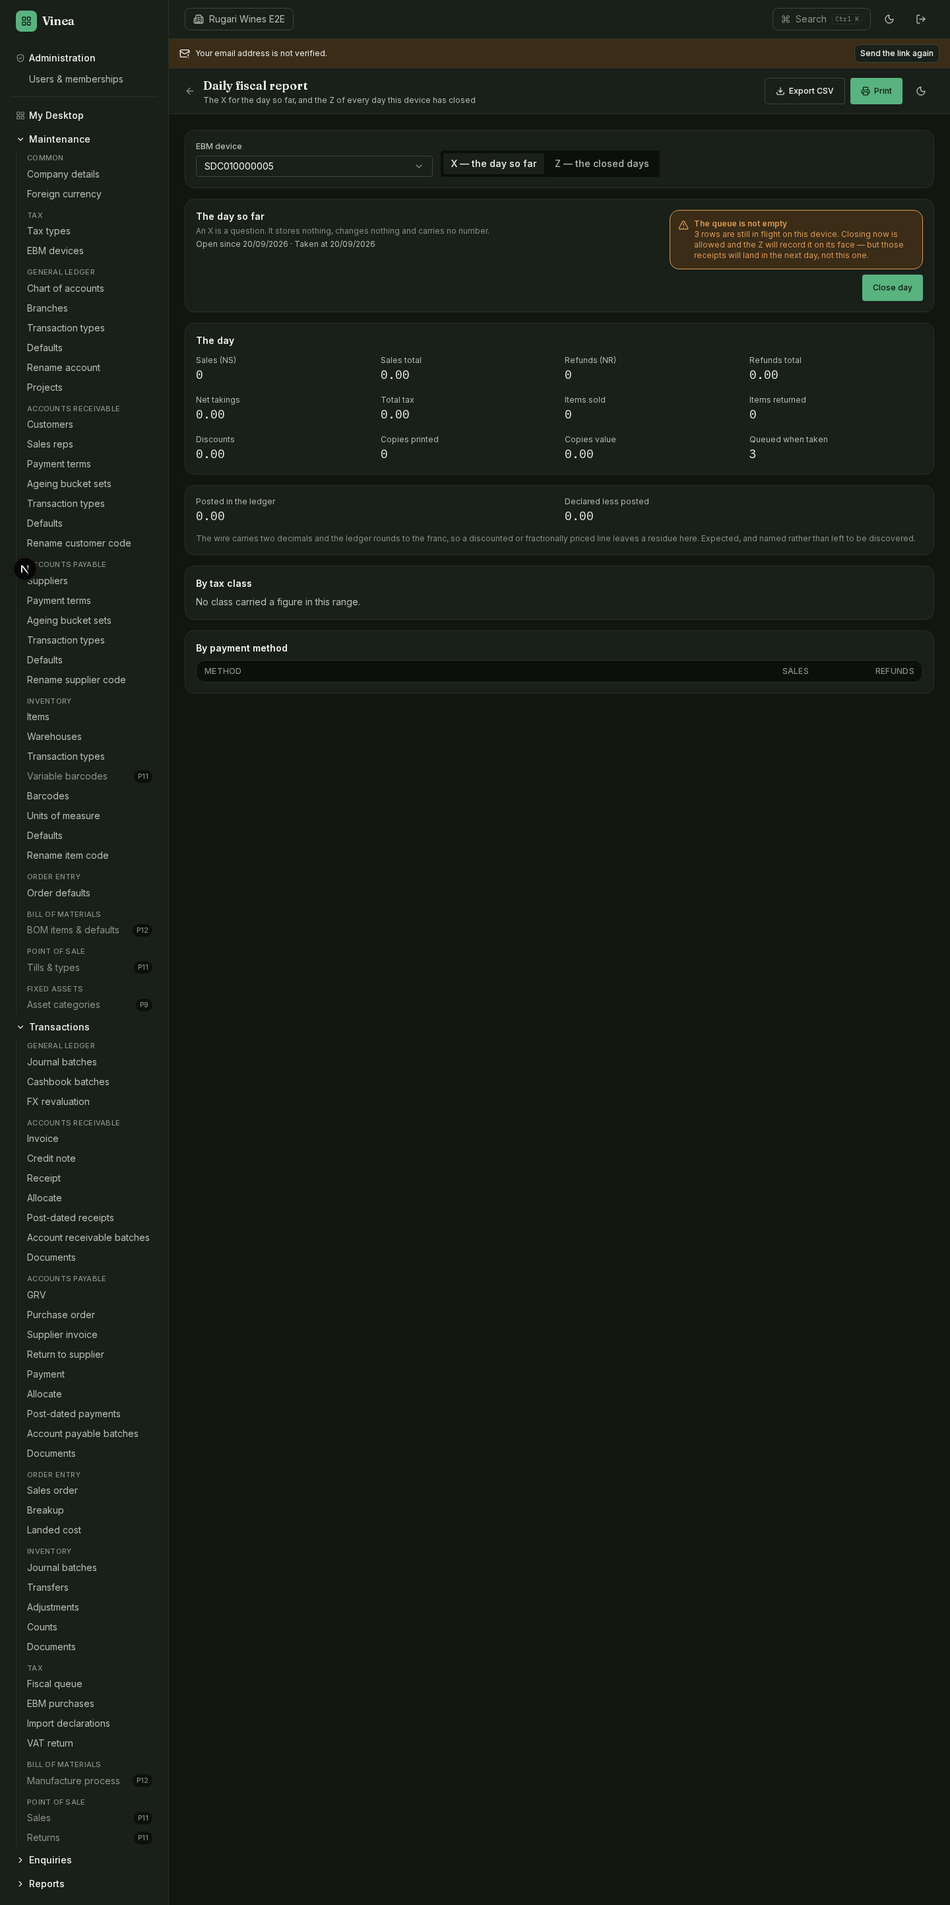
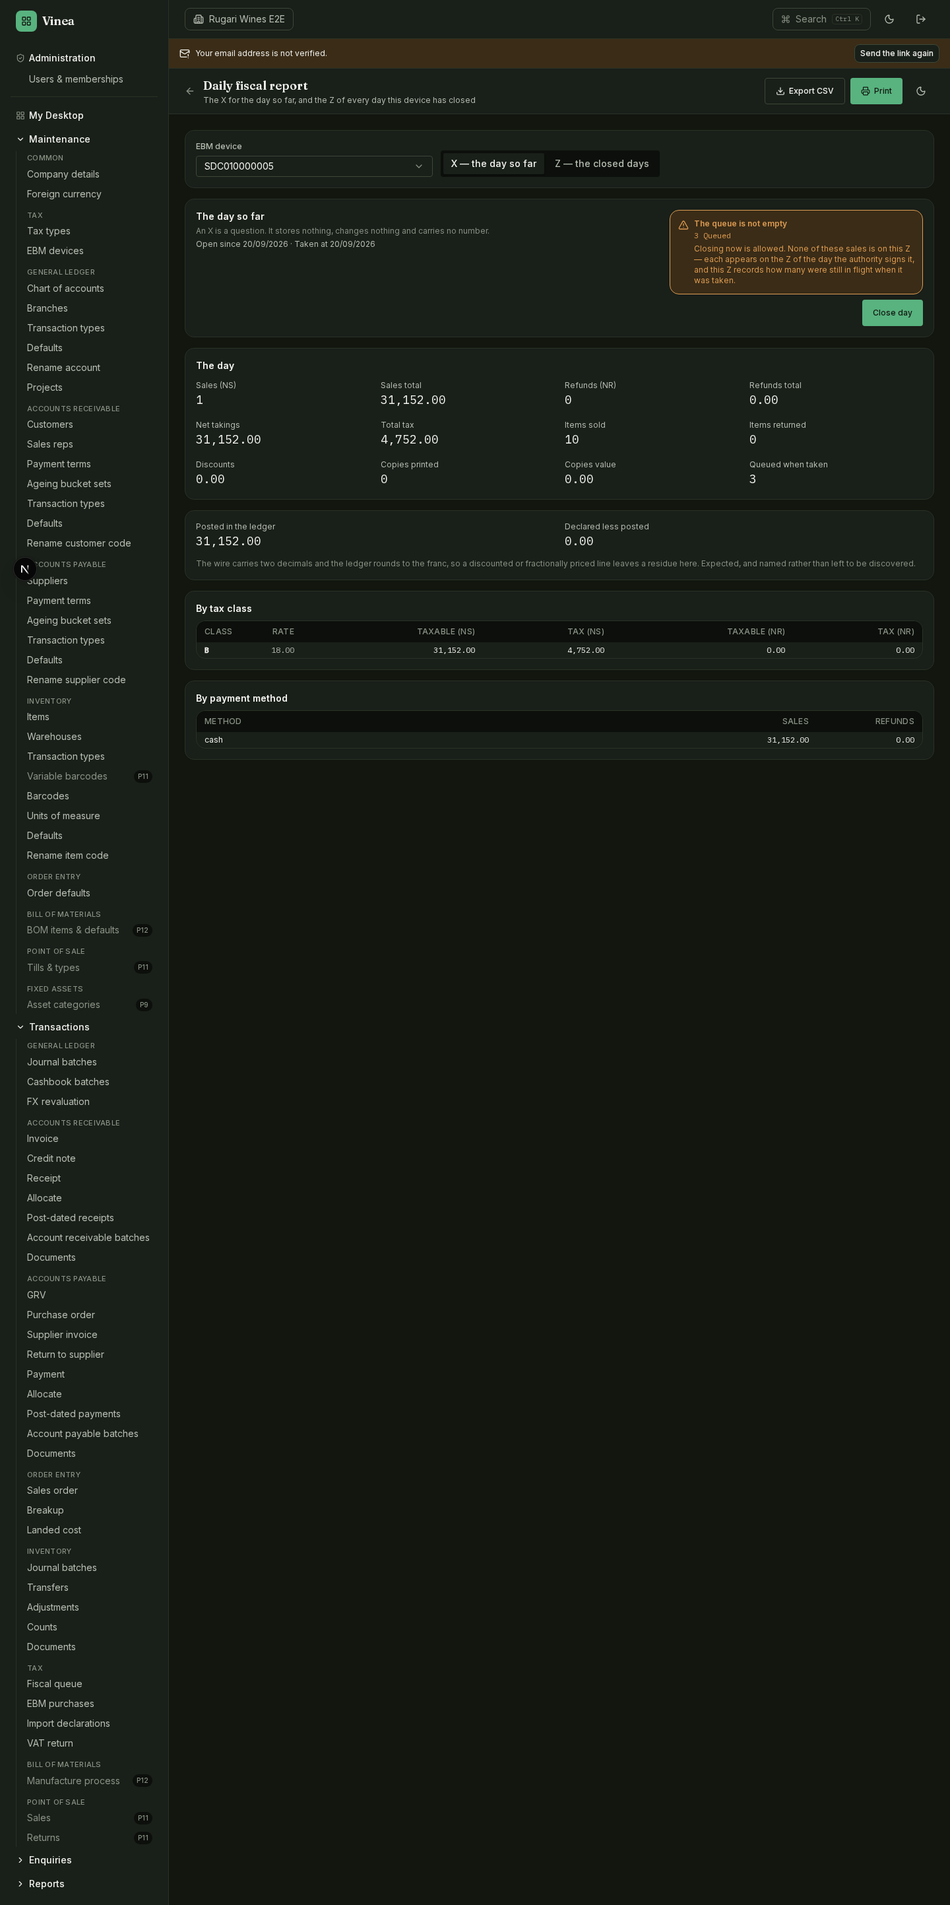
fix(fiscal): Close day says which rows and where those sales go
Three things the owner's reading of the kickoff asked for, and one boundary
that fell out of asking.

**Rows in flight by status, not as one number.** `queued` and `sending` clear
themselves; `failed`, `unknown` and `needs_receipt` each wait for a person and
for three different reasons — RRA refused, RRA may be holding the sale, RRA is
holding it and Vinea has no receipt. "5 rows pending" told a reader there was a
queue and nothing about whether it was a drain away or a morning's work.
`pending_rows` is Σ of exactly these statuses, so the breakdown and the total
cannot disagree.

**And the copy was wrong.** It said those receipts "will land in the next day".
A row the authority answers three days later lands on the Z of **that** day. It
now says so: *"None of these sales is on this Z — each appears on the Z of the
day the authority signs it, and this Z records how many were still in flight
when it was taken."*

**The e2e closes over a row.** It drove one through `/_sandbox/mode` and then
drained it away before closing, so `queued_rows` was only ever asserted on a
live X — never on a stored Z, which is the one thing decision 11 stores it for.
It now presses Close day over the stuck row and asserts the Z carries the same
count: two sales stand in the range, the Z counts one, and the other is in
`queued_rows` rather than missing. Then the authority returns and the sale lands
on the next Z with `queued_rows` 0 — the warning's claim made good.
[…]

diff --git a/frontend/e2e/p7-enquiries-reports.spec.ts b/frontend/e2e/p7-enquiries-reports.spec.ts
@@ -405,7 +405,7 @@ test.describe("the tax enquiries and reports", () => {
 
   // PATH: /tax/reports/daily-fiscal -> GET /fiscal/devices/{id}/x-report, GET /fiscal/queue.
   // CANNOT SEE: what a Z stores — that is the next test, after this one has closed the day.
-  test("the X view warns before the button while a row is still in flight", async ({
+  test("the day closes over a row in flight, and the Z says how many", async ({
     page,
     request,
   }) => {
@@ -417,8 +417,8 @@ test.describe("the tax enquiries and reports", () => {
     await sandboxMode(request, "down");
     await postInvoice(page, "1", "stuck");
     await drain(page);
-    expect(await pendingRows(page), "the sale is stuck behind an unreachable authority")
-      .toBeGreaterThan(0);
+    const inFlight = await pendingRows(page);
+    expect(inFlight, "the sale is stuck behind an unreachable authority").toBeGreaterThan(0);
 
     await page.goto("/tax/reports/daily-fiscal");
     await page.waitForSelector("h1:has-text('Daily fiscal report')");
@@ -431,20 +431,66 @@ test.describe("the tax enquiries and reports", () => {
     await expect(page.getByTestId("close-day-warning")).toBeVisible();
     await expect(page.getByTestId("close-day-clear")).toHaveCount(0);
     await expect(page.getByTestId("close-day")).toBeEnabled();
-    await expect(page.getByTestId("day-queued-rows")).not.toHaveText("0");
 
-    // --- the authority comes back, and the warning goes with it ---------------------------
+    // **By status, not as one number.** `queued` and `sending` clear themselves; `failed`,
+    // `unknown` and `needs_receipt` each wait for a person, for three different reasons. A
+    // reader deciding whether to close needs to know which kind they have.
+    const byStatus = page.getByTestId("close-day-pending-by-status");
+    await expect(byStatus).toBeVisible();
+    await expect(byStatus).toContainText("Queued");
+    await expect(byStatus.locator("li")).not.toHaveCount(0);
+
+    // And the text says where those sales go — the Z of the day the authority signs them, not
+    // this one.
+    await expect(page.getByTestId("close-day-warning")).toContainText(
+      "the Z of the day the authority signs it",
+    );
+    await expect(page.getByTestId("day-queued-rows")).toHaveText(String(inFlight));
+
+    // --- closed **over** the row, and the Z carries the count ------------------------------
+    //
+    // Two screens, one count: what the X warned about, and what the Z recorded on its face.
+    // This is decision 11's whole reason for storing `queued_rows`, and the only way to see it
+    // is to close over something.
+    await page.getByTestId("close-day").click();
+    await expect(page.getByText(/Z-\d+ stored/).first()).toBeVisible({ timeout: 30_000 });
+    await expect(page.getByTestId("z-number").first()).toHaveText(/^Z-\d+$/);
+    await expect(page.getByTestId("day-queued-rows")).toHaveText(String(inFlight));
+
+    // **A queued row is not a receipt, and this is where that shows.** Two sales stand in this
+    // range — the USD invoice the setup signed, and the one the authority never got — and the
+    // Z counts **one**. The other is not missing and not silently dropped: it is in
+    // `queued_rows` above, which is the whole reason decision 11 stores that figure.
+    await expect(page.getByTestId("day-ns-count")).toHaveText("1");
+    await expect(page.getByTestId("day-nr-count")).toHaveText("0");
+
+    // --- the authority comes back, and the sale lands on the *next* Z ----------------------
+    //
+    // Which is the claim the warning makes, made good. Draining here also leaves the queue
+    // clear for the rest of the file, and the second close keeps that sale out of the next
+    // test's range.
     await sandboxMode(request, "up");
+
+    // **Past the close's second before draining, deliberately.** A Z's bounds are floored to a
+    // second because `sdcDateTime` has no finer resolution, and a receipt signed in the very
+    // second a Z was taken falls inside that Z's *range* while its figures are already frozen —
+    // and the next Z opens exclusively at the same instant, so neither counts it. The backend's
+    // own boundary test sleeps 2.05s for exactly this reason
+    // (`test_daily_report.py::test_a_second_z_covers_only_what_came_after_the_first`). This is
+    // the resolution the design has, not a flake being papered over: a real device signs and
+    // closes minutes apart, and only a test is fast enough to land on the boundary.
+    await page.waitForTimeout(1500);
     await drainUntilClear(page);
-    await page.reload();
+
+    await page.goto("/tax/reports/daily-fiscal");
     await page.waitForSelector("h1:has-text('Daily fiscal report')");
     await expect(page.getByTestId("close-day-clear")).toBeVisible();
     await expect(page.getByTestId("close-day-warning")).toHaveCount(0);
-
-    // Close what is standing so far — everything this fixture and any earlier spec left — so
-    // the next test's Z covers its own three documents and nothing else.
     await page.getByTestId("close-day").click();
     await expect(page.getByText(/Z-\d+ stored/).first()).toBeVisible({ timeout: 30_000 });
+    // The sale the earlier Z could not count is on this one, and this one closed over nothing.
+    await expect(page.getByTestId("day-ns-count")).toHaveText("1");
+    await expect(page.getByTestId("day-queued-rows")).toHaveText("0");
   });
 
   // PATH: /tax/reports/daily-fiscal and /tax/reports/receipts -> GET x-report, z-reports,

diff --git a/frontend/src/features/fiscal/reports/daily-report.tsx b/frontend/src/features/fiscal/reports/daily-report.tsx
@@ -13,6 +13,7 @@ import { TBody, TD, TH, THead, TR, Table } from "@/design/components/table";
 import { Tabs, TabsList, TabsTrigger } from "@/design/components/tabs";
 import { useToast } from "@/design/components/toast";
 import { isApiError, useHasPermission } from "@/features/auth/hooks";
+import { FiscalOutboxStatus } from "@/lib/api-enums";
 import { useCompanyDetails, useCurrencies } from "@/features/gl/hooks";
 import { exportToCsv } from "@/lib/csv";
 import { newDraftId } from "@/lib/drafts";
@@ -26,6 +27,13 @@ import {
   useZReports,
 } from "../hooks";
 import type { DailyFigures, DailyReport } from "../types";
+
+/** The two states a row cannot move out of by itself. Everything else is "in flight" and is
+ * what `pending_rows` counts — so this is the one place the two definitions meet. */
+const TERMINAL_ON_THE_DAY: ReadonlySet<string> = new Set([
+  FiscalOutboxStatus.SENT,
+  FiscalOutboxStatus.CANCELLED,
+]);
 
 /**
  * Reports → Tax → **Daily fiscal report** (P7 step 8): the X live, the Zs closed, and the act
@@ -50,6 +58,7 @@ import type { DailyFigures, DailyReport } from "../types";
  */
 export function DailyFiscalReport() {
   const t = useTranslations("fiscal.daily");
+  const tq = useTranslations("fiscal.queue");
   const tr = useTranslations("reports");
   const toast = useToast();
   const showApiError = useApiErrorToast();
@@ -74,6 +83,20 @@ export function DailyFiscalReport() {
   const close = useCloseFiscalDay();
 
   const pending = queue.data?.[0]?.pending_rows ?? 0;
+  /**
+   * The rows in flight **by status**, not as one number.
+   *
+   * `queued` and `sending` clear themselves; `failed`, `unknown` and `needs_receipt` each wait
+   * for a person, and they wait for three different reasons — RRA refused, RRA may be holding
+   * the sale, RRA is holding it and Vinea has no receipt. A single "5 rows pending" tells
+   * somebody deciding whether to close that there is a queue, and nothing about whether it is
+   * a drain away or a morning's work.
+   *
+   * `pending_rows` is Σ of exactly these, so the breakdown and the total cannot disagree.
+   */
+  const pendingByStatus = (queue.data?.[0]?.counts ?? []).filter(
+    (count) => !TERMINAL_ON_THE_DAY.has(count.status) && count.rows > 0,
+  );
 
   const base = (currencies.data ?? []).find((c) => c.is_base);
   /** The **declared** scale: two decimals, whatever the currency's own places are. See the
@@ -206,7 +229,20 @@ export function DailyFiscalReport() {
                       <AlertTriangle className="mt-0.5 size-4 shrink-0" />
                       <div>
                         <p className="font-semibold">{t("pendingWarningTitle")}</p>
-                        <p>{t("pendingWarning", { count: pending })}</p>
+                        <ul
+                          data-testid="close-day-pending-by-status"
+                          className="flex flex-wrap gap-x-3 pt-0.5 font-mono"
+                        >
+                          {pendingByStatus.map((count) => (
+                            <li key={count.status}>
+                              {t("pendingByStatus", {
+                                rows: count.rows,
+                                status: tq(`statusLabel.${count.status}`),
+                              })}
+                            </li>
+                          ))}
+                        </ul>
+                        <p className="pt-1">{t("pendingWarning")}</p>
                       </div>
                     </div>
                   ) : (

diff --git a/frontend/scripts/capture-p7-enquiries-reports.ts b/frontend/scripts/capture-p7-enquiries-reports.ts
@@ -317,6 +317,15 @@ async function seed(page: Page): Promise<{ deviceId: number; documentId: number 
   // then carries figures **and** the warning (shot 4).
   await apiOk(page, `/fiscal/devices/${deviceId}/close-day`);
 
+  // **Past the close's second before anything else is signed.** A Z's bounds are floored to a
+  // second (`sdcDateTime` has no finer resolution) and its range is `from_at <` … `<= to_at`, so
+  // a receipt issued in the very second the Z was taken lands inside a range whose figures are
+  // already frozen — and the next range opens exclusively at the same instant, so neither Z
+  // counts it. This script does a day's trading in under a second, which is the only way to
+  // reach that boundary; a real device is minutes apart. Without this wait shot 4's X came out
+  // a warning over a column of zeros, because the sale below had been swallowed by the Z above.
+  await page.waitForTimeout(1500);
+
   // --- a posted revaluation, so the FX report has a run to open ---------------------------
   //
   // The mirror posts the day after the revaluation date, so a month-end run reaches into the

diff --git a/docs/p7-step-8-report.md b/docs/p7-step-8-report.md
@@ -147,41 +147,99 @@ base reversal — and that is the honest answer to "what took this out of the ba
 Overwriting it with the counter-entry would replace one true statement with a different true
 statement and lose the first.
 
-## Close day: warn, don't refuse — and why
+## Close day: the kickoff's refusal wording is withdrawn
 
 The kickoff carried this as *"refused when the device has non-terminal rows … the refusal shown
 before the button"*. Raised before building, because it contradicts an approved decision, and
 settled by the owner: **warn, don't refuse.**
 
-The conflict was real. `daily.close_day()` refuses one thing — an empty range
-(`fiscal_z_empty_range`) — and decision 11 deliberately records `queued_rows` on every Z, in its
-own words *"so a Z that closed over an unsent sale says so on its face"*. A hard refusal would
-make that figure dead: it could never be anything but zero. It would also stop a shop closing its
-day because a line was down, which turns an outage into the shop's problem instead of the queue's.
+**That wording is withdrawn. Decision 11 stands exactly as written, and is not amended.** No
+backend change was made and none was needed — `daily.close_day()` is untouched.
 
-So the rule lives where decision 11 put it, and the screen carries the part the kickoff was
-actually asking for — the warning is shown **before** the button, never after it:
+The conflict was real. `close_day()` refuses one thing, an empty range (`fiscal_z_empty_range`),
+and decision 11 deliberately records `queued_rows` on every Z, in its own words *"so a Z that
+closed over an unsent sale says so on its face"*. A refusal would make that figure dead: it could
+never be anything but zero, and the sentence decision 11 wrote it for could never be true. It
+would also stop a shop closing its day because a line was down, which turns an outage into the
+shop's problem instead of the queue's.
 
-* rows in flight → a warning naming the count, and what closing now means for those receipts
-  (`close-day-warning`); Close day stays enabled;
-* queue clear → `close-day-clear` says so;
-* and the Z that results carries `queued_rows` on its face, which the screen renders as a figure
-  of its own.
+So the screen carries what the kickoff was actually asking for — the person is told, **before**
+the button, what closing now means — and the decision keeps its meaning.
 
-The e2e proves it on a **real** stuck row driven through `/_sandbox/mode`: the authority goes
-down, a sale stays in flight, the warning appears with the button still pressable, and then the
-authority comes back and the warning is replaced. No backend change was needed and none was made.
+### What the X view says
 
-**A second close in the same second is refused**, and that is the existing guard doing its job.
-A Z's range runs from the previous close to now, floored to the second, so an immediate second
-close has an empty range. The resolution is a second because `sdcDateTime` has no finer one —
-`tests/fiscal/test_daily_report.py` sleeps 2.05 s for the same reason where it wants a real
-boundary — and the e2e clicks twice in succession and asserts the refusal.
+* **Rows in flight by status**, not as one number (`close-day-pending-by-status`): `queued` and
+  `sending` clear themselves, while `failed`, `unknown` and `needs_receipt` each wait for a person
+  and for three different reasons — RRA refused, RRA may be holding the sale, RRA is holding it
+  and Vinea has no receipt. "5 rows pending" tells a reader there is a queue and nothing about
+  whether it is a drain away or a morning's work. `pending_rows` is Σ of exactly these statuses,
+  so the breakdown and the total cannot disagree.
+* **Where those sales go**: *"Closing now is allowed. None of these sales is on this Z — each
+  appears on the Z of the day the authority signs it, and this Z records how many were still in
+  flight when it was taken."* Not "the next day": a row the authority takes three days to answer
+  lands on the Z of **that** day, and a first draft of this copy said otherwise.
+* **Close day stays enabled**, under `fiscal:close_day`.
+* When the queue is clear, `close-day-clear` says so instead.
 
-**`fiscal:close_day`** is the permission on the button (decision 15 as amended at step 5;
-`fiscal:queue_manage` was the placeholder, migration 0025 added the real one). The nav row itself
-reads on the fiscal *view* permissions, because an accountant may read an X and a Z without
-being able to close a day.
+### And the e2e closes over one
+
+Driven through `/_sandbox/mode`: the authority goes down, a sale stays in flight, and the test
+reads the count off the X view — then **presses Close day over it**. The resulting Z carries
+`queued_rows` equal to that same count, and `ns_count` **0**, because a queued row is not a
+receipt and is no part of the day's takings. Two screens, one count, which is the only way to see
+what decision 11 stores `queued_rows` for.
+
+Then the authority comes back, the queue drains, and the next Z carries that sale with
+`queued_rows` **0** — the warning's claim made good rather than asserted.
+
+### A receipt signed in the second a Z is taken is counted by neither
+
+Found by writing the test above, and worth carrying because step 9's DoD asserts Z totals.
+
+A Z's bounds are floored to a second (`_floor_second`), because `sdcDateTime` has no finer
+resolution, and a range is `from_at <` … `<= to_at`. Close a day and drain **within the same
+second**, and the receipt that comes back is stamped inside the closed Z's range — whose figures
+are already frozen — while the next Z opens *exclusively* at that same instant. Observed exactly
+once, in a run fast enough to do both in 18 seconds:
+
+| | range | `ns_count` |
+|---|---|---|
+| `Z-000001` | 21:13:06 → **21:13:11** | 1 |
+| `Z-000002` | **21:13:11** → 21:13:13 | 0 |
+
+The receipt was signed at 21:13:11 and is on neither.
+
+**Not filed as a defect, and no code was changed for it.** The tiling property decision 11 wants —
+closes cover a device's whole life with no gap and no overlap — holds over *ranges*; what cannot
+be made exact is which side a receipt issued in the boundary second falls, because the stamp has
+no finer resolution to ask. A real device signs and closes minutes apart. Only a test is fast
+enough to land on it, which is why the backend's own boundary test
+(`test_a_second_z_covers_only_what_came_after_the_first`) sleeps 2.05 s rather than pretending
+otherwise, and why this file's e2e now waits past the close's second before draining — with that
+reason written next to the wait, so nobody later deletes it as a flake patch.
+
+**For step 9**: the tape closes days and drains around them. If it asserts a Z total straight
+after a close, it has to be past that second first.
+
+### The second close
+
+Asserted as **whatever the backend actually does**, which is `fiscal_z_empty_range` on an empty
+follow-up range: a Z runs from the previous close to now, both floored to the second, so a second
+close at the same instant has a range of zero length and nothing in it. Nothing was invented, and
+no new refusal was added.
+
+It is pinned at the **service** level, where the clock is injectable
+(`tests/fiscal/test_daily_report.py::test_a_second_close_at_the_same_instant_is_refused`), and it
+was asserted nowhere before this step — the existing API test names it in a docstring as the
+reason for a `sleep` and never checks it. It is deliberately *not* asserted through the screen: a
+tab switch and a render cost more than the second the refusal depends on, and once a second has
+elapsed the close succeeds and stores an empty Z, which is also correct. A test that is right only
+when the machine is fast is a test about the machine.
+
+**`fiscal:close_day`** is the permission on the button (decision 15 as amended at step 5 —
+`fiscal:queue_manage` was the placeholder, and migration 0025 added the real one). The nav row
+reads on the fiscal *view* permissions, because an accountant may read an X and a Z without being
+able to close a day.
 
 ## The Z-versus-receipts tie, and the prices it took to see it
 

diff --git a/docs/screenshots/p7-step-8/README.md b/docs/screenshots/p7-step-8/README.md
@@ -34,7 +34,7 @@ nothing to report.
 | 1 | **Fiscal receipts** (Enquiries → Tax) | the counters as the paper prints them, `n/m NS` and `n/m NR`, with the document and the journal entry beside each | `1-receipts-enquiry-{light,dark}.png` |
 | 2 | **Fiscal queue history** (Enquiries → Tax) | one document's rows in send order, and the action log open under them | `2-queue-history-{light,dark}.png` |
 | 3 | **VAT return** (Reports → Tax) | the sections as filed, the tie with every untagged movement named, and both annex buttons | `3-vat-return-report-{light,dark}.png` |
-| 4 | **Daily fiscal report — X**, with a sale still in flight | the warning **before** the button, and Close day still pressable — decision 11 on the screen | `4-daily-x-close-day-{light,dark}.png` |
+| 4 | **Daily fiscal report — X**, with a sale still in flight | the rows in flight **by status** (`3 Queued`), the text saying each of those sales appears on the Z of the day the authority signs it, `Queued when taken 3`, and Close day still pressable — decision 11 on the screen | `4-daily-x-close-day-{light,dark}.png` |
 | 5 | **Daily fiscal report — the Z tab** | the closed day with its §19.1 figures: declared, posted beside it, the residue named, the classes, and the payment methods with sales and refunds never netted | `5-daily-z-figures-{light,dark}.png` |
 | 6 | **Fiscal receipts listing — the tie** (Reports → Tax) | declared against the ledger, the difference, and the one document that is in the ledger and not signed with `queued` against it | `6-receipts-listing-tie-{light,dark}.png` |
 | 7 | **FX revaluation** (Reports → General Ledger) | a run's lines per open foreign-currency document, with the run and its next-day mirror named | `7-fx-revaluation-report-{light,dark}.png` |
@@ -44,5 +44,12 @@ they are not the same picture: the Z holds the three signed documents, and the X
 holds nothing but the sale the authority could not be reached for. A first pass captured both
 full-page from the X tab and produced the same image **to the byte** — which is the sort of
 thing a screenshot pass exists to catch, and only catches if somebody looks.
+
+**The seed waits past the close's second**, and the reason is on the line. A Z's bounds are
+floored to a second and its range is `from_at <` … `<= to_at`, so a receipt issued in the very
+second a Z was taken falls inside a range whose figures are already frozen — and the next range
+opens exclusively at that instant, so neither Z counts it. This script does a day's trading in
+under a second, which is the only way to reach that boundary. Without the wait, shot 4 came out a
+warning over a column of zeros because the sale below it had been swallowed by the Z above.
 
 Every shot was opened and read before it was committed.
